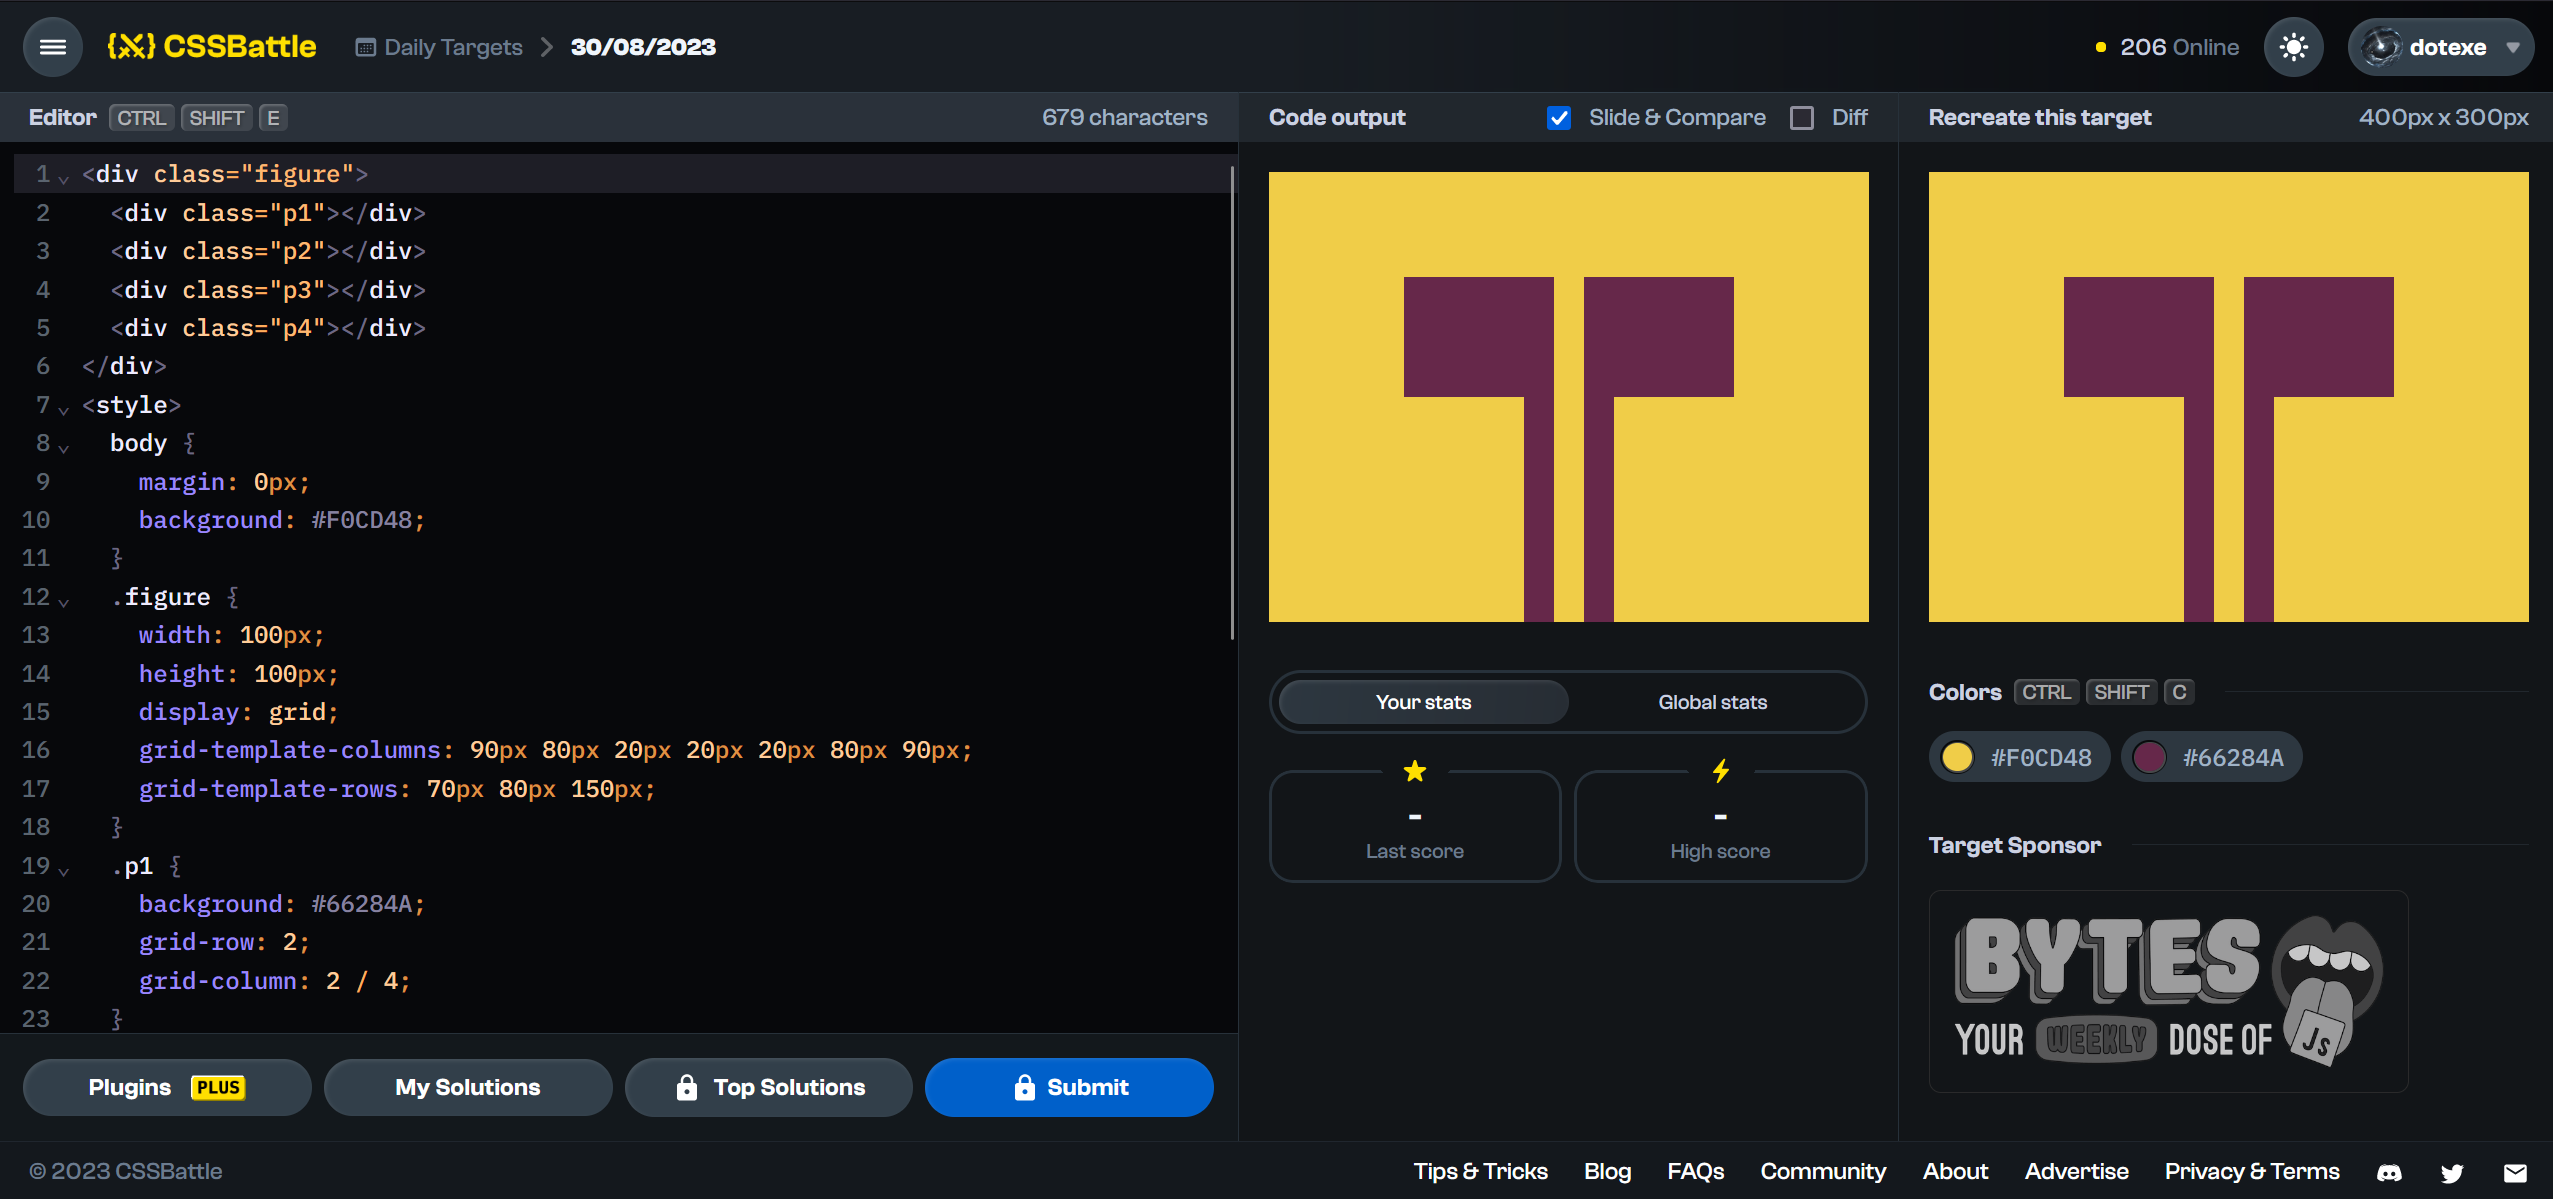
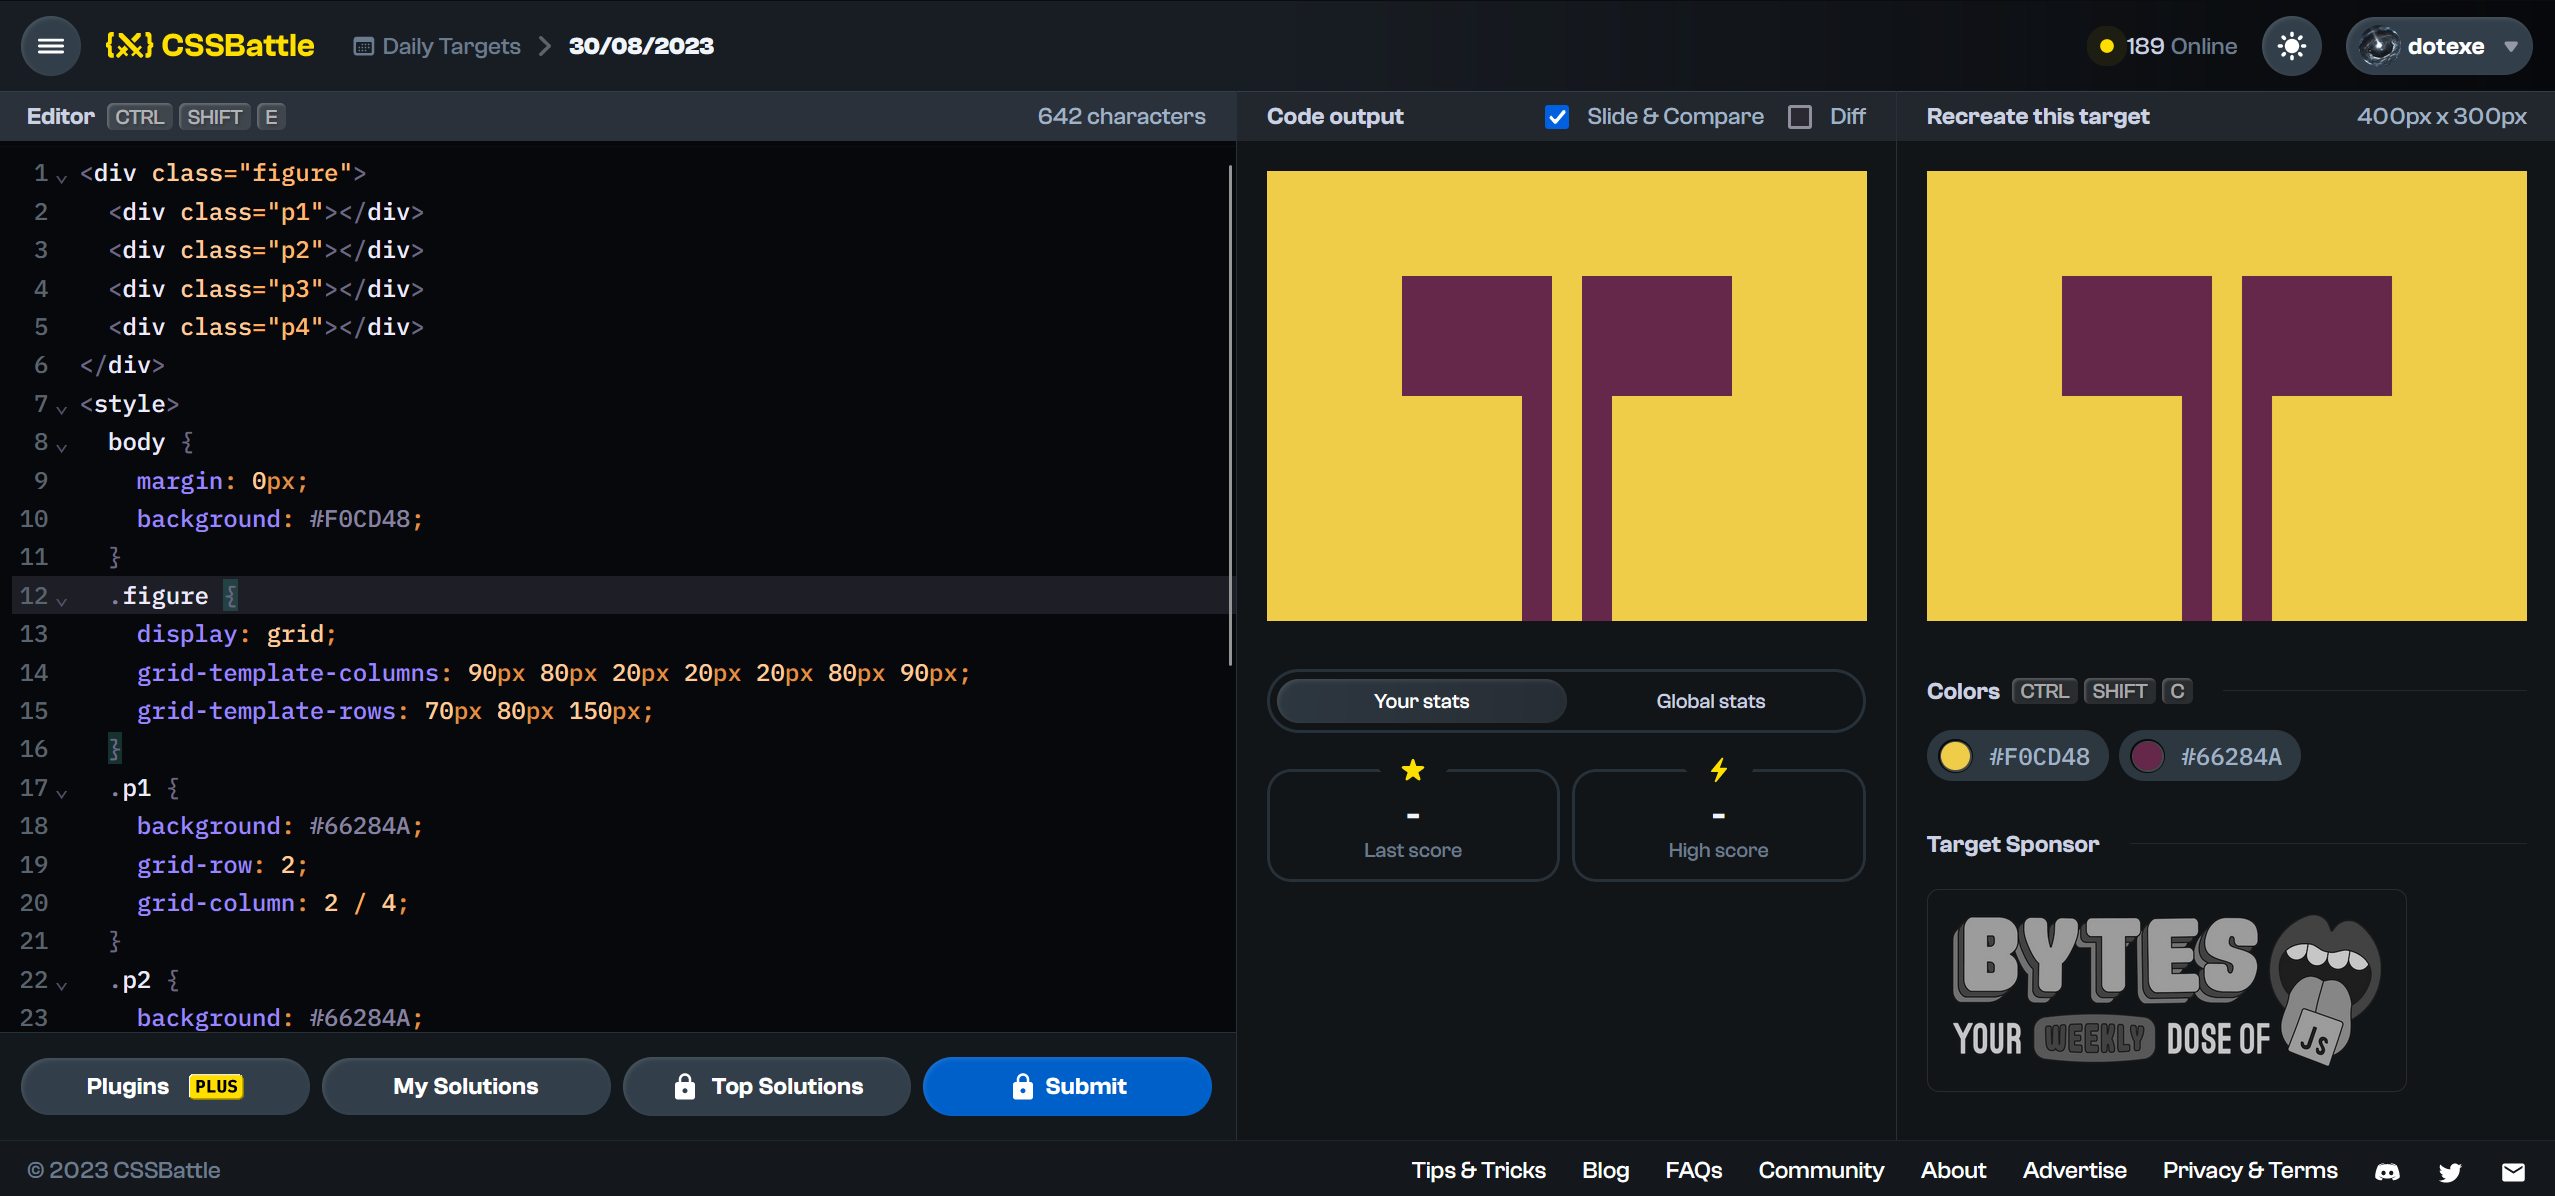
update daily target 30-08-2023

diff --git a/daily-targets/30-08-2023/30-08-2023-centered.html b/daily-targets/30-08-2023/30-08-2023-centered.html
@@ -10,6 +10,11 @@
         background: #F0CD48;
     }
     .figure {
+        position: fixed;
+        top: 50%;
+        left: 50%;
+        transform: translate(-50%, -50%);
+        border: 2px solid black;
         display: grid;
         grid-template-columns: 90px 80px 20px 20px 20px 80px 90px;
         grid-template-rows: 70px 80px 150px;

diff --git a/daily-targets/30-08-2023.md b/daily-targets/30-08-2023.md
@@ -26,8 +26,6 @@
         background: #F0CD48;
     }
     .figure {
-        width: 100px;
-        height: 100px;
         display: grid;
         grid-template-columns: 90px 80px 20px 20px 20px 80px 90px;
         grid-template-rows: 70px 80px 150px;
@@ -55,3 +53,7 @@
 </style>
 ```
 <sub>Full code for my solution</sub>
+
+_NOTE: for showcase purposes I've created `daily-targets\30-08-2023\30-08-2023-centered.html` file, which is centered and bordered version of `daily-targets\30-08-2023\30-08-2023.html` (which is placed in this .md)_
+<br>
+_NOTE2: I've noticed, that `cssbattle.dev` changed the picture for this target. Now it's possible to reach 100% match, but the gradient should be half as high._
